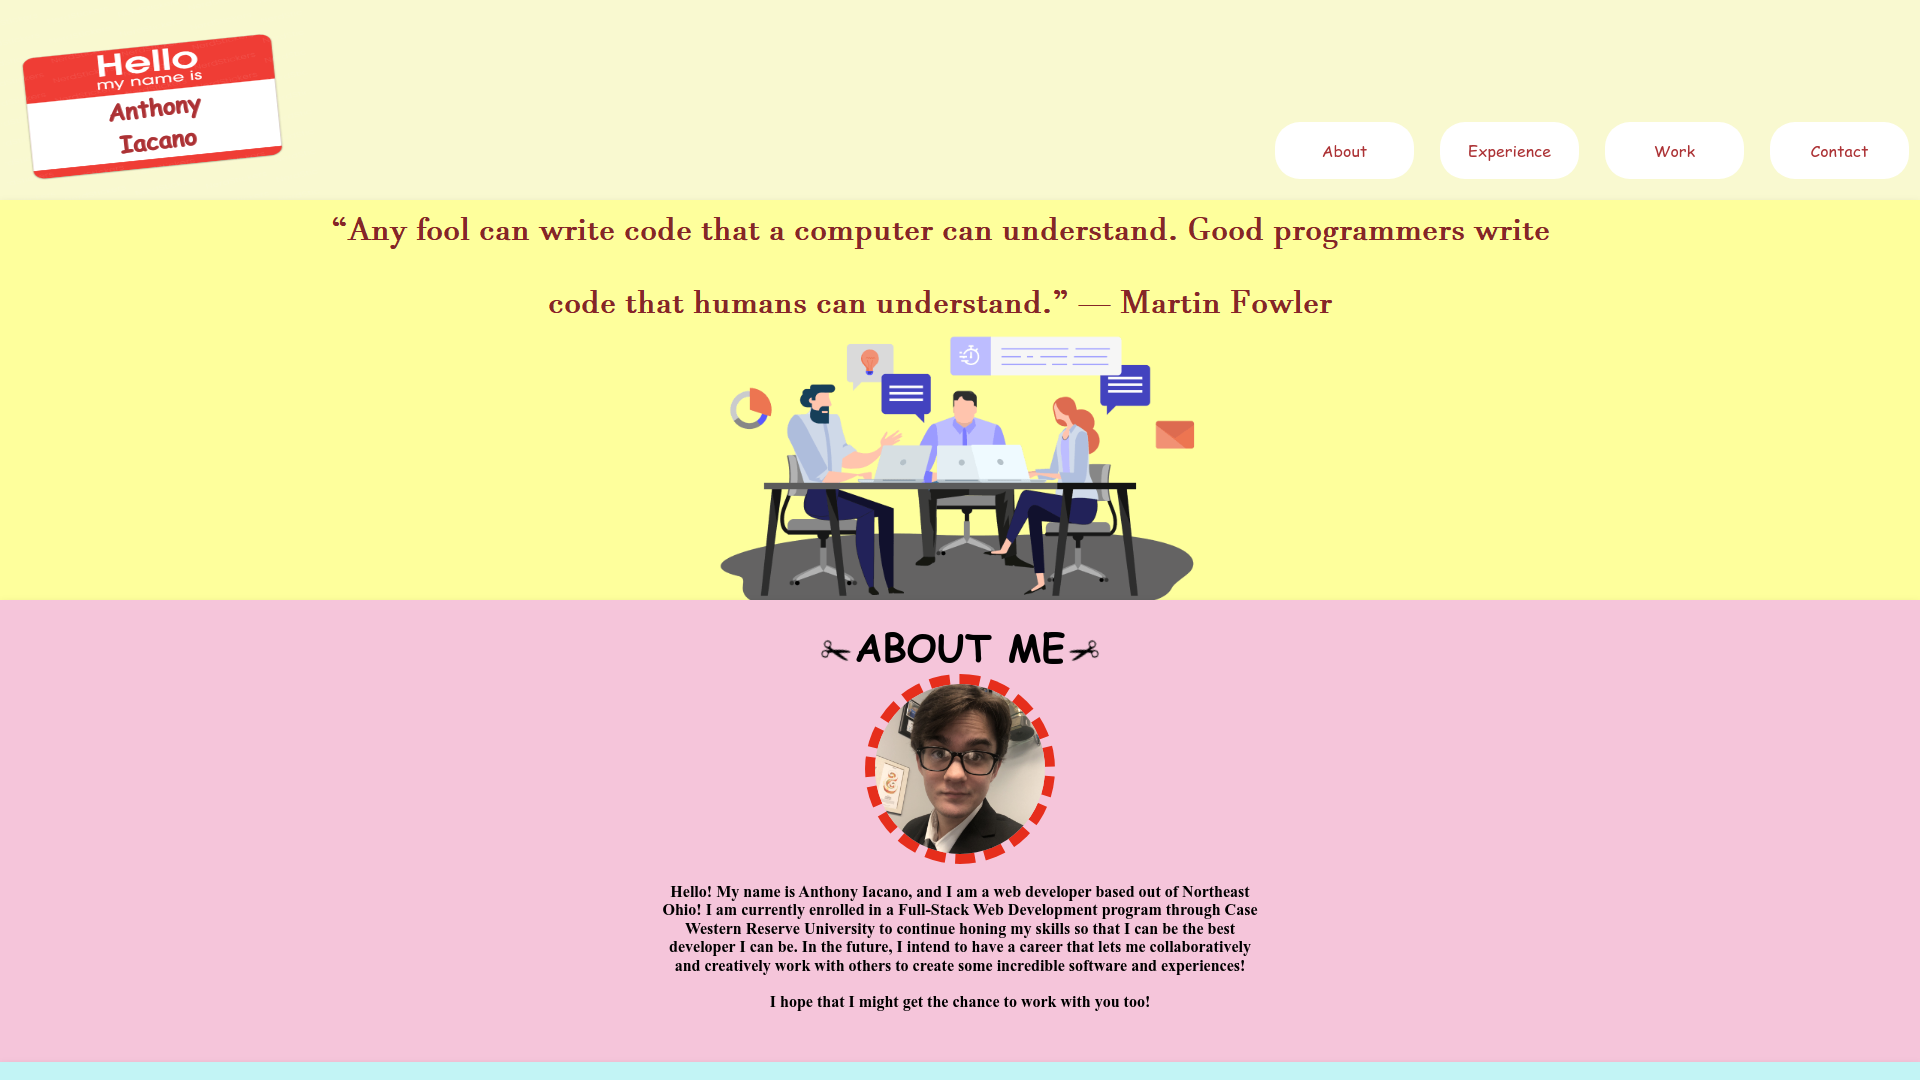
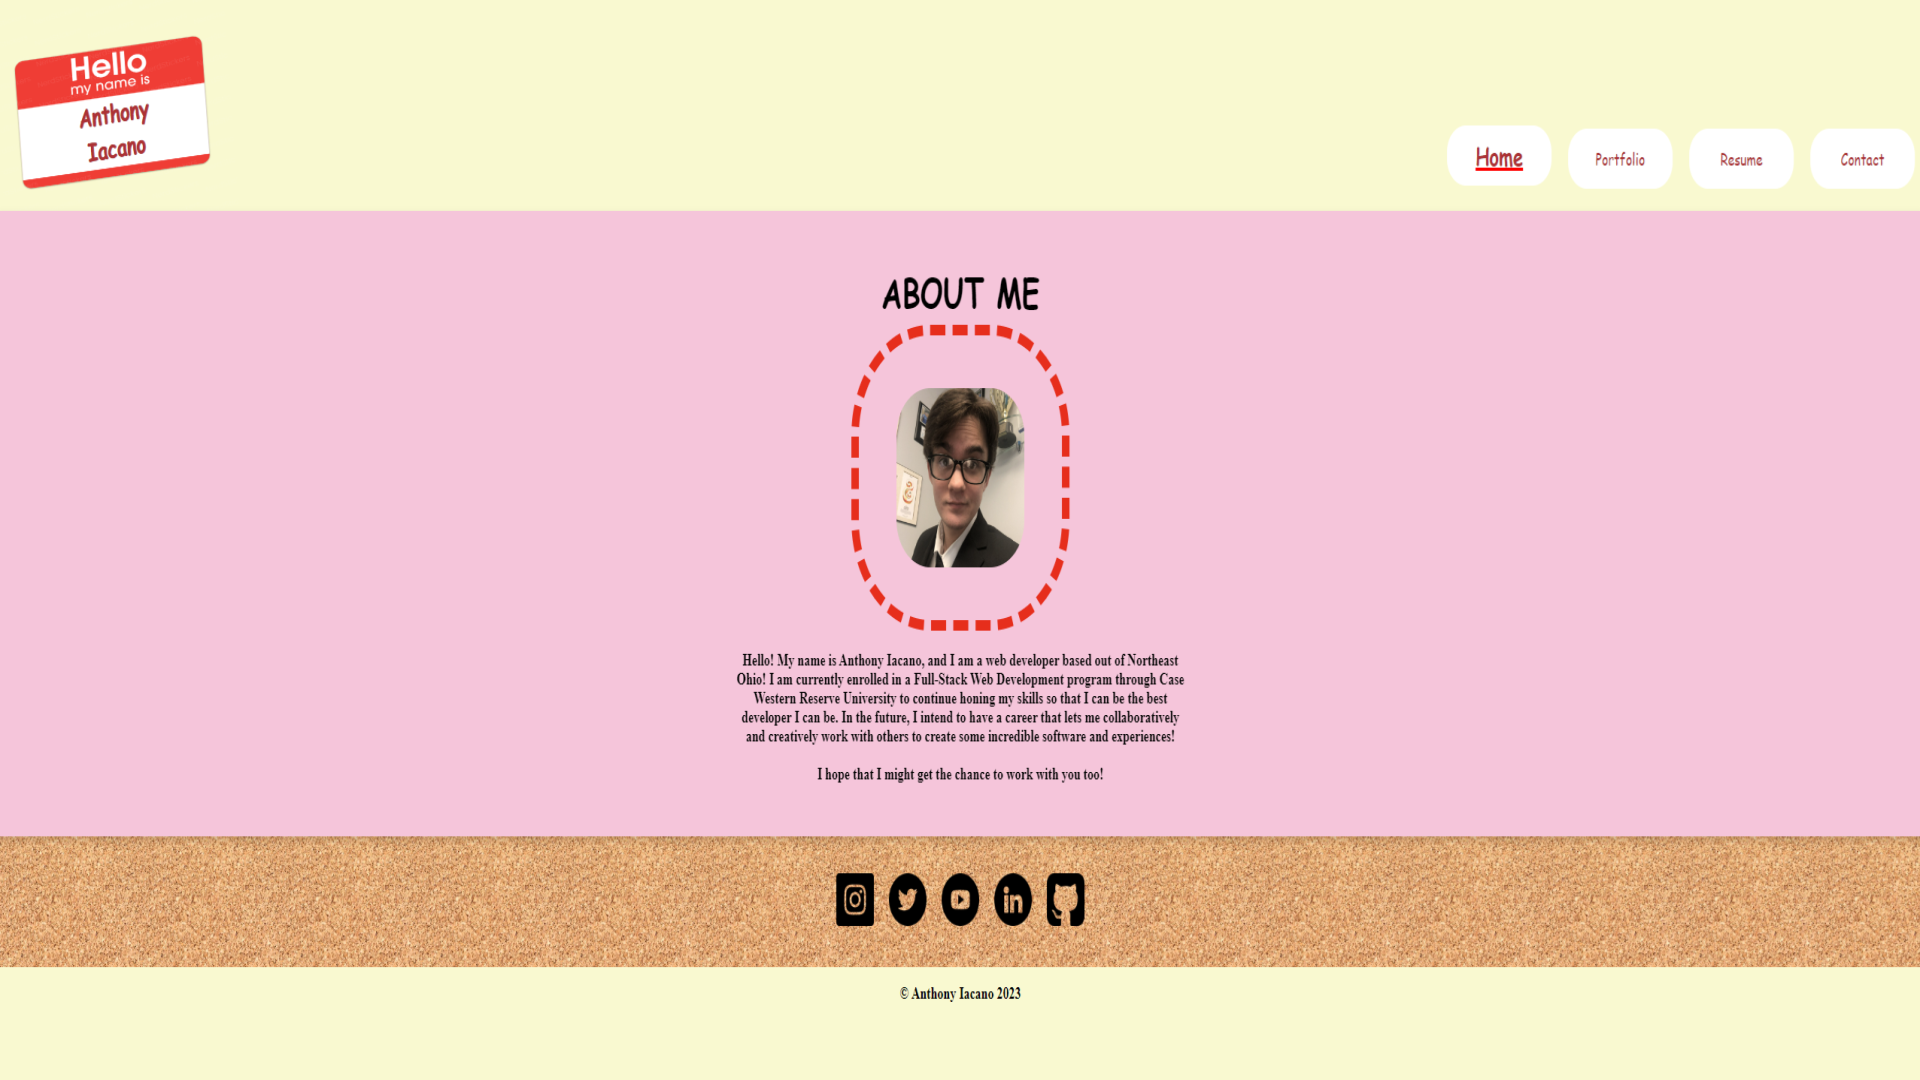
added logic for contact page, styled and fixed console errors

diff --git a/src/pages/Portfolio.jsx b/src/pages/Portfolio.jsx
@@ -12,7 +12,7 @@ export default function Portfolio() {
                   <img src="src\assets\images\portfolio\portfolio-project.png" alt="a screenshot of the website you are currently on taken via site-shot on 11/21/2023" />
                 </a>
                 <figcaption>PORTFOLIO</figcaption>
-                <a href="https://github.com/Anthony-GG/react-portfolio-webpage"><img style={{ width: '5%' }} class = "social-media-icons" src = "../src/assets/images/github-social.png" alt="an icon representing GitHub"/></a>
+                <a href="https://github.com/Anthony-GG/react-portfolio-webpage"><img style={{ width: '5%' }} className = "social-media-icons" src = "../src/assets/images/github-social.png" alt="an icon representing GitHub"/></a>
               </figure>
   
               <figure>
@@ -20,7 +20,7 @@ export default function Portfolio() {
                   <img src="src\assets\images\portfolio\mongo-social-media-api-GET-final.png" alt="A screenshot of the Social Media API webpage" />
                 </a>
                 <figcaption>MONGO DB SOCIAL MEDIA API</figcaption>
-                <a href="https://github.com/Anthony-GG/mongo-social-media-api"><img style={{ width: '5%' }} class = "social-media-icons" src = "../src/assets/images/github-social.png" alt="an icon representing GitHub"/></a>
+                <a href="https://github.com/Anthony-GG/mongo-social-media-api"><img style={{ width: '5%' }} className = "social-media-icons" src = "../src/assets/images/github-social.png" alt="an icon representing GitHub"/></a>
               </figure>
   
               <figure>
@@ -28,7 +28,7 @@ export default function Portfolio() {
                   <img src="src\assets\images\portfolio\event-forecaster-main-final.png" alt="A screenshot of the Event Forecaster webpage" />
                 </a>
                 <figcaption>EVENT FORECASTER</figcaption>
-                <a href="https://github.com/Anthony-GG/event-forecaster"><img style={{ width: '5%' }} class = "social-media-icons" src = "../src/assets/images/github-social.png" alt="an icon representing GitHub"/></a>
+                <a href="https://github.com/Anthony-GG/event-forecaster"><img style={{ width: '5%' }} className = "social-media-icons" src = "../src/assets/images/github-social.png" alt="an icon representing GitHub"/></a>
               </figure>
             </div>
   
@@ -39,7 +39,7 @@ export default function Portfolio() {
                   <img src="src\assets\images\portfolio\full-note-registry-final.png" alt="A screenshot of the Note Registry webpage" />
                 </a>
                 <figcaption>NOTE REGISTRY</figcaption>
-                <a href="https://github.com/Anthony-GG/note-registry"><img style={{ width: '5%' }} class = "social-media-icons" src = "../src/assets/images/github-social.png" alt="an icon representing GitHub"/></a>
+                <a href="https://github.com/Anthony-GG/note-registry"><img style={{ width: '5%' }} className = "social-media-icons" src = "../src/assets/images/github-social.png" alt="an icon representing GitHub"/></a>
               </figure>
   
               <figure>
@@ -47,7 +47,7 @@ export default function Portfolio() {
                   <img src="src\assets\images\portfolio\programming-quiz-final.png" alt="A screenshot of the Programming Quiz webpage" />
                 </a>
                 <figcaption>PROGRAMMING QUIZ</figcaption>
-                <a href="https://github.com/Anthony-GG/programming-quiz"><img style={{ width: '5%' }} class = "social-media-icons" src = "../src/assets/images/github-social.png" alt="an icon representing GitHub"/></a>
+                <a href="https://github.com/Anthony-GG/programming-quiz"><img style={{ width: '5%' }} className = "social-media-icons" src = "../src/assets/images/github-social.png" alt="an icon representing GitHub"/></a>
               </figure>
   
               <figure>
@@ -55,7 +55,7 @@ export default function Portfolio() {
                   <img src="src\assets\images\portfolio\heeho-project-final.png" alt="A picture labeled 'Coming Soon' with a teaser for an upcoming project! Hee-Ho!" />
                 </a>
                 <figcaption>COMING SOON</figcaption>
-                <a href="https://github.com/Anthony-GG/dice-detection-application"><img style={{ width: '5%' }} class = "social-media-icons" src = "../src/assets/images/github-social.png" alt="an icon representing GitHub"/></a>
+                <a href="https://github.com/Anthony-GG/dice-detection-application"><img style={{ width: '5%' }} className = "social-media-icons" src = "../src/assets/images/github-social.png" alt="an icon representing GitHub"/></a>
               </figure>
             </div>
           </div>

diff --git a/src/pages/Contact.jsx b/src/pages/Contact.jsx
@@ -1,12 +1,104 @@
+import React, { useState } from 'react';
+
 // <!--Start of the Contact Page-->
 export default function Contact(){
-    return(
-        <>
-            <section class = "contact" id="contact">
-                <h2>CONTACT ME</h2>
-                <p>Whether you want to talk to me about your favorite movie, or about an exciting idea/project you might have, feel free to reach out using the button below!</p>
-                <button type="button" class="button" id="contact-button"><a href="mailto:anthonymiacanojr@gmail.com">CLICK HERE</a></button>
-            </section>
-        </>
-    );
-}
+  const [formData, setFormData] = useState({
+    name: '',
+    email: '',
+    message: '',
+  });
+
+  const [errors, setErrors] = useState({
+    name: '',
+    email: '',
+  });
+
+  const handleChange = (e) => {
+    const { name, value } = e.target;
+
+    setFormData({
+      ...formData,
+      [name]: value,
+    });
+
+    // Validate required fields
+    setErrors({
+      ...errors,
+      [name]: value.trim() === '' ? 'Text is required' : '',
+    });
+  };
+
+  const handleBlur = (e) => {
+    const { name, value } = e.target;
+
+    // Validate required fields on blur
+    setErrors({
+      ...errors,
+      [name]: value.trim() === '' ? 'Text is required' : '',
+    });
+  };
+
+  const handleEmailBlur = (e) => {
+    const { value } = e.target;
+
+    // Validate email format
+    setErrors({
+      ...errors,
+      email: !/^\S+@\S+\.\S+$/.test(value) ? 'Invalid email address' : '',
+    });
+  };
+
+  const handleSubmit = (e) => {
+    e.preventDefault();
+
+    // Additional validation or form submission logic can be added here
+    console.log('Form submitted:', formData);
+  };
+
+  return (
+    <div className = "about" id="contact-box">
+      <h2>Contact Us</h2>
+      <form onSubmit={handleSubmit}>
+        <div>
+          <label className="contact-text" htmlFor="name">Name:</label>
+          <input
+            type="text"
+            id="name"
+            name="name"
+            value={formData.name}
+            onChange={handleChange}
+            onBlur={handleBlur}
+          />
+          {errors.name && <p className="error">{errors.name}</p>}
+        </div>
+
+        <div>
+          <label className="contact-text" htmlFor="email">Email:</label>
+          <input
+            type="email"
+            id="email"
+            name="email"
+            value={formData.email}
+            onChange={handleChange}
+            onBlur={handleEmailBlur}
+          />
+          {errors.email && <p classNameName="error">{errors.email}</p>}
+        </div>
+
+        <div>
+          <label className="contact-text" htmlFor="message">Message:</label>
+          <textarea
+            id="message"
+            name="message"
+            value={formData.message}
+            onChange={handleChange}
+            required
+          />
+        </div>
+
+        <button className="button" id="contact-button" type="submit">Submit</button>
+      </form>
+    </div>
+  );
+};
+

diff --git a/src/components/Footer.jsx b/src/components/Footer.jsx
@@ -3,13 +3,13 @@ export default function Nav({ links }) {
     return (
         <>
             {/* <!--Start of the CONTACT:SOCIAL MEDIA Sub-Section--> */}
-            <ui class="social-media-group">
-                <li><a href="https://www.instagram.com/"><img class = "social-media-icons" src = "../src/assets/images/instagram-social.png" alt="an icon representing Instagram"/></a></li>
-                <li><a href="https://www.twitter.com/"><img class = "social-media-icons" src = "../src/assets/images/twitter-social.png" alt="an icon representing Twitter"/></a></li>
-                <li><a href="https://www.youtube.com/channel/UCIAmyQl-oYA_gvgSA4AQtOA"><img class = "social-media-icons" src = "../src/assets/images/youtube-social.png" alt="an icon representing YouTube"/></a></li>
-                <li><a href="https://www.linkedin.com/in/anthony-iacano/"><img class = "social-media-icons" src = "../src/assets/images/linkedin-social.png" alt="an icon representing Linkedin"/></a></li>
-                <li><a href="https://github.com/Anthony-GG/"><img class = "social-media-icons" src = "../src/assets/images/github-social.png" alt="an icon representing GitHub"/></a></li>
-            </ui>
+            <div className="social-media-group">
+                <li><a href="https://www.instagram.com/"><img className = "social-media-icons" src = "../src/assets/images/instagram-social.png" alt="an icon representing Instagram"/></a></li>
+                <li><a href="https://www.twitter.com/"><img className = "social-media-icons" src = "../src/assets/images/twitter-social.png" alt="an icon representing Twitter"/></a></li>
+                <li><a href="https://www.youtube.com/channel/UCIAmyQl-oYA_gvgSA4AQtOA"><img className = "social-media-icons" src = "../src/assets/images/youtube-social.png" alt="an icon representing YouTube"/></a></li>
+                <li><a href="https://www.linkedin.com/in/anthony-iacano/"><img className = "social-media-icons" src = "../src/assets/images/linkedin-social.png" alt="an icon representing Linkedin"/></a></li>
+                <li><a href="https://github.com/Anthony-GG/"><img className = "social-media-icons" src = "../src/assets/images/github-social.png" alt="an icon representing GitHub"/></a></li>
+            </div>
 
             <footer>
                 <p> Anthony Iacano 2023</p>

diff --git a/src/App.css b/src/App.css
@@ -194,6 +194,42 @@ footer p::before {
   background-position: center;
 }
 
+/*START OF CONTACT-SECTION CSS, takes a lot from ABOUT class*/
+
+#contact-box {
+  background-color: var(--lightstickygreen);
+  flex-direction: column;
+}
+
+.contact-text {
+  font-size: 24px;
+  margin-bottom: 10px;
+}
+
+#contact-button {
+  background-color: var(--lightstickyblue);
+  border-radius: 10px;
+  font-size: 20px;
+  margin-top: 25px;
+}
+
+#contact-button:hover {
+  background-color: var(--stickyblue);
+  border-radius: 10px;
+  font-size: 22px;
+}
+
+#contact-button-border{
+  padding-top:15px;
+  padding-bottom: 15px;
+}
+#contact-button-border:hover{
+  background-image: url(..\src\assets\images\redpencircle.gif);
+  background-repeat: no-repeat;
+  background-size: 20% 125%;
+  background-position: center;
+}
+
 /*viewport adjustments for standard tablets*/
 @media only screen and (max-width: 1024px) {
   .hero img{

diff --git a/src/pages/Resume.jsx b/src/pages/Resume.jsx
@@ -2,9 +2,9 @@
 export default function Resume(){
     return(
         <>
-            <div id = "resume-box" class="about">
+            <div id = "resume-box" className="about">
                 <img id="resume-img" src="..\src\assets\documents\Anthony_Iacano_Resume.png" alt="Anthony's Resume"></img>
-                <div id="resume-button-border"><a href="..\src\assets\documents\Anthony_Iacano_Resume.pdf" download="Anthony_Iacano_Resume.pdf" id="resume-link"><button class="button"id="resume-button">Download Resume</button></a></div>
+                <div id="resume-button-border"><a href="..\src\assets\documents\Anthony_Iacano_Resume.pdf" download="Anthony_Iacano_Resume.pdf" id="resume-link"><button className="button"id="resume-button">Download Resume</button></a></div>
             </div>
         </>
     );

diff --git a/src/pages/AboutMe.jsx b/src/pages/AboutMe.jsx
@@ -4,7 +4,7 @@ import Header from "../components/Header";
 export default function AboutMe() {
     return (
       <>
-      <div class = "about" id="about">
+      <div className = "about" id="about">
         <div id="about-content">
           <h2>ABOUT ME</h2>
           <img id="headshot" src="..\src\assets\images\Anthony_Iacano_temporary_headshot.JPG" alt="a closeup picture of Anthony Iacano" />

diff --git a/src/components/Header.jsx b/src/components/Header.jsx
@@ -15,7 +15,7 @@ export default function Header() {
         links={[
           // Home Nav
           <li key={1}>
-            <NavLink to="/" exact> 
+            <NavLink to="/"> 
               Home
             </NavLink>
           </li>,
